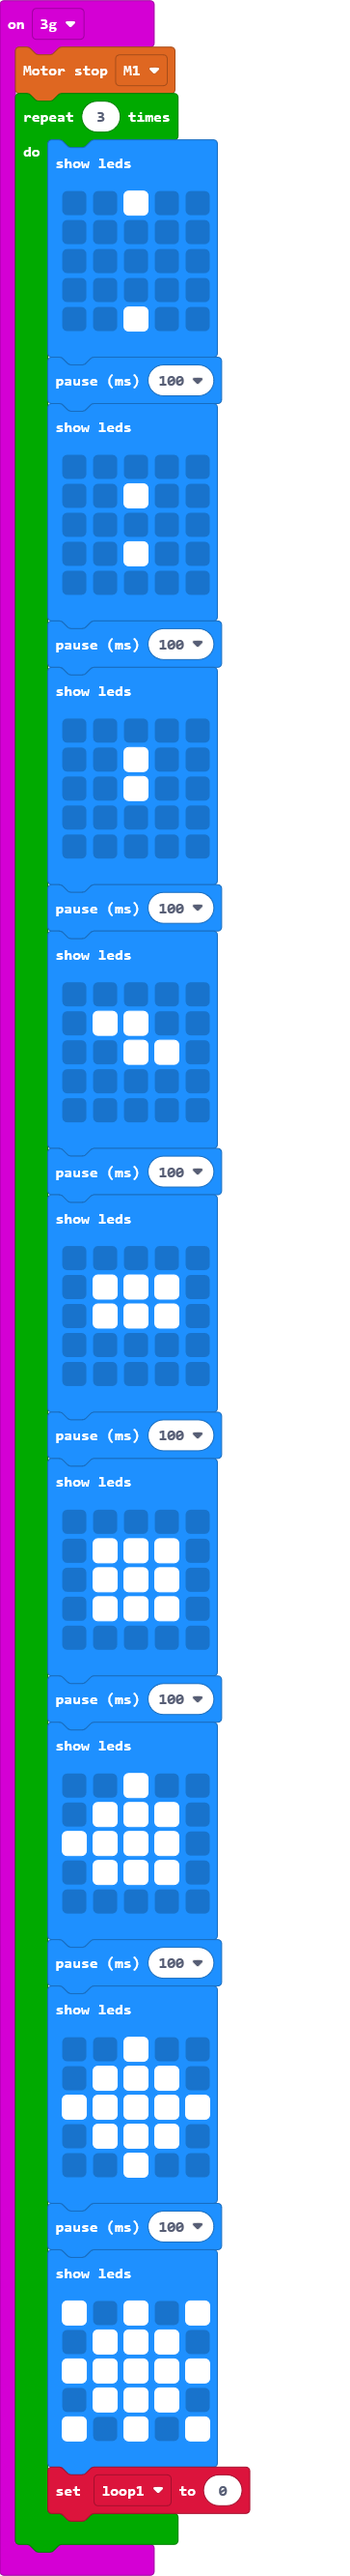
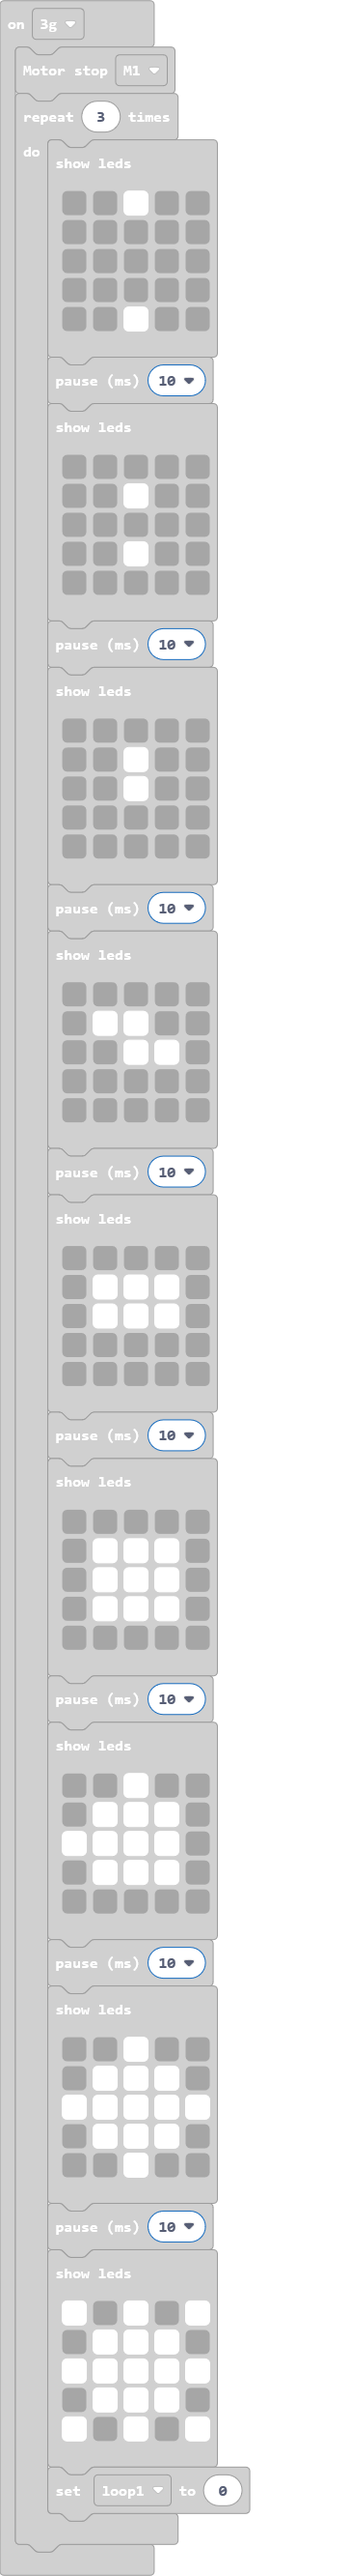
Update main.blocks, main.ts

diff --git a/main.ts b/main.ts
@@ -66,7 +66,7 @@ input.onGesture(Gesture.ThreeG, function () {
             . . . . .
             . . # . .
             `)
-        basic.pause(100)
+        basic.pause(10)
         basic.showLeds(`
             . . . . .
             . . # . .
@@ -74,7 +74,7 @@ input.onGesture(Gesture.ThreeG, function () {
             . . # . .
             . . . . .
             `)
-        basic.pause(100)
+        basic.pause(10)
         basic.showLeds(`
             . . . . .
             . . # . .
@@ -82,7 +82,7 @@ input.onGesture(Gesture.ThreeG, function () {
             . . . . .
             . . . . .
             `)
-        basic.pause(100)
+        basic.pause(10)
         basic.showLeds(`
             . . . . .
             . # # . .
@@ -90,7 +90,7 @@ input.onGesture(Gesture.ThreeG, function () {
             . . . . .
             . . . . .
             `)
-        basic.pause(100)
+        basic.pause(10)
         basic.showLeds(`
             . . . . .
             . # # # .
@@ -98,7 +98,7 @@ input.onGesture(Gesture.ThreeG, function () {
             . . . . .
             . . . . .
             `)
-        basic.pause(100)
+        basic.pause(10)
         basic.showLeds(`
             . . . . .
             . # # # .
@@ -106,7 +106,7 @@ input.onGesture(Gesture.ThreeG, function () {
             . # # # .
             . . . . .
             `)
-        basic.pause(100)
+        basic.pause(10)
         basic.showLeds(`
             . . # . .
             . # # # .
@@ -114,7 +114,7 @@ input.onGesture(Gesture.ThreeG, function () {
             . # # # .
             . . . . .
             `)
-        basic.pause(100)
+        basic.pause(10)
         basic.showLeds(`
             . . # . .
             . # # # .
@@ -122,7 +122,7 @@ input.onGesture(Gesture.ThreeG, function () {
             . # # # .
             . . # . .
             `)
-        basic.pause(100)
+        basic.pause(10)
         basic.showLeds(`
             # . # . #
             . # # # .
